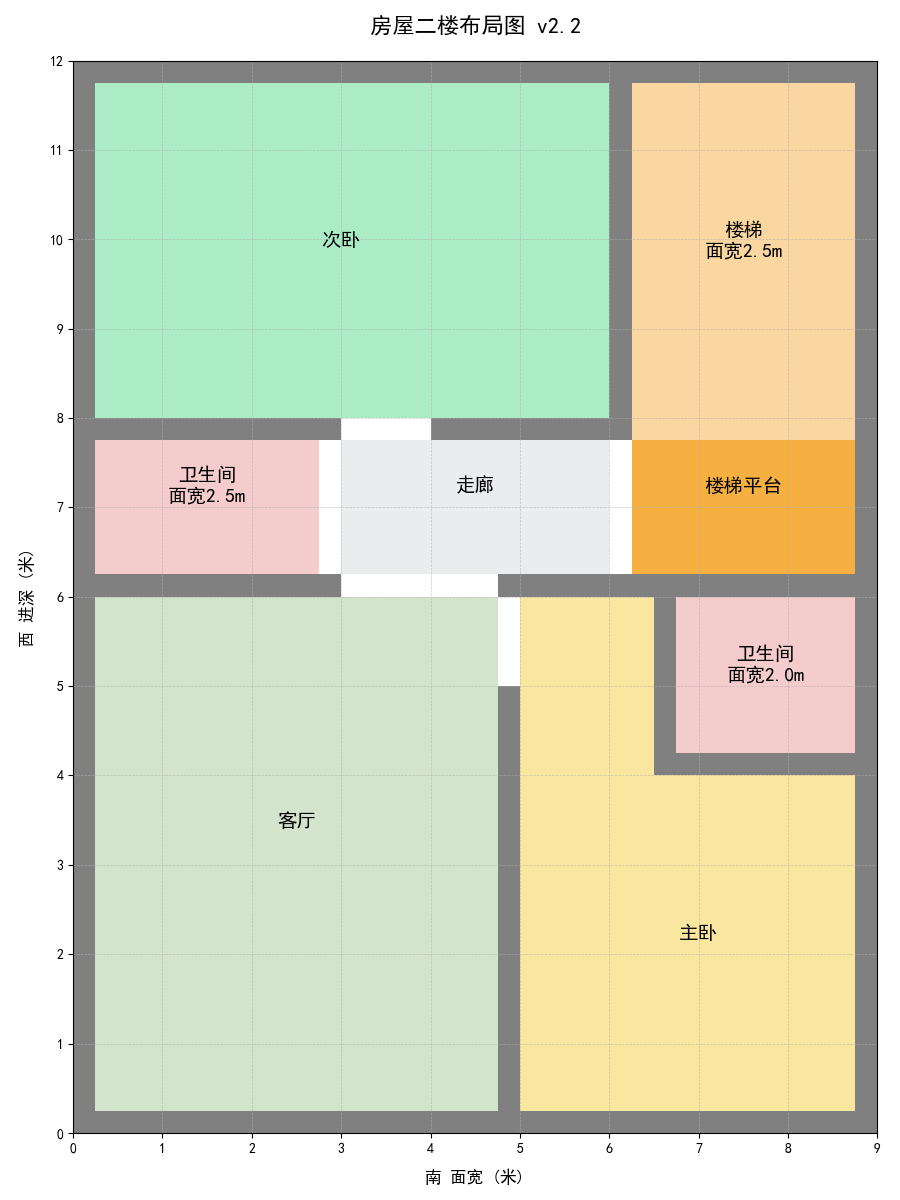
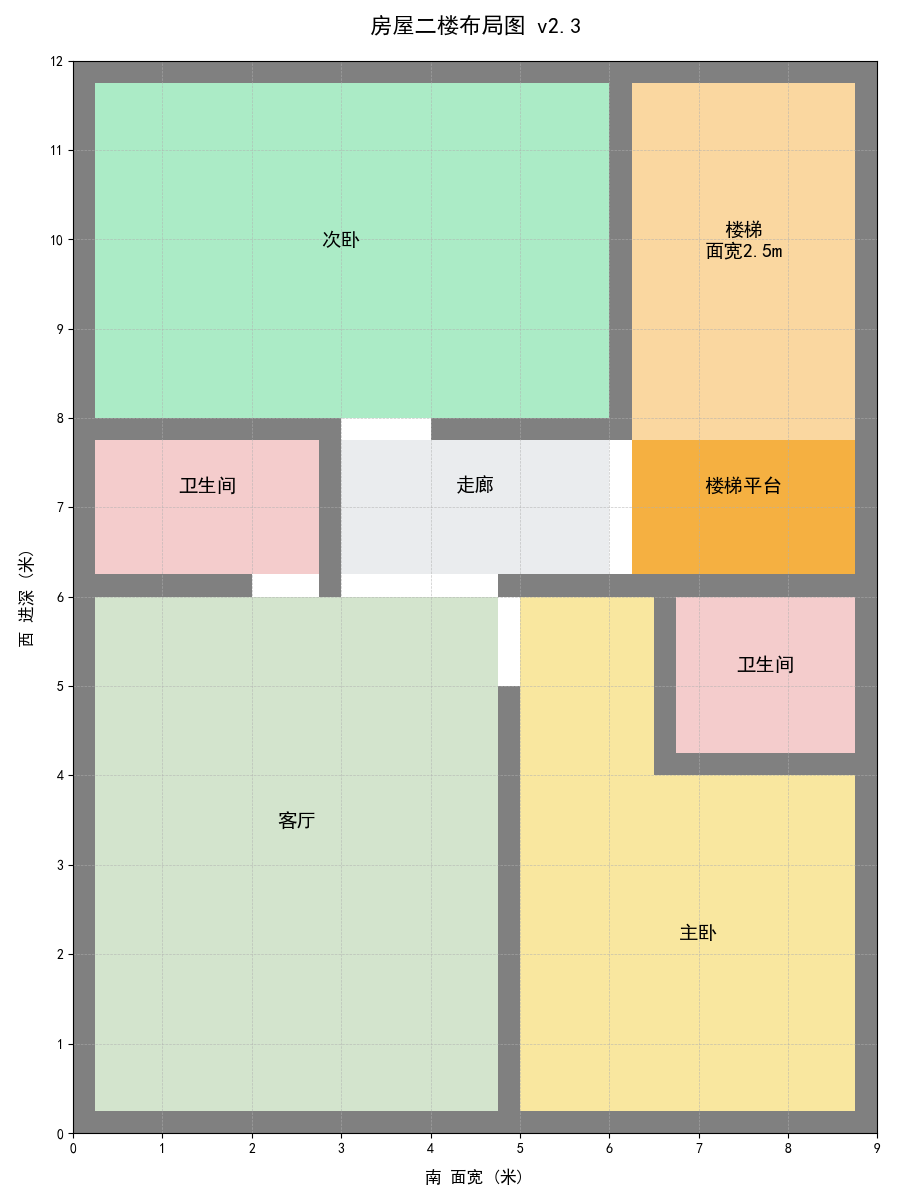
perf(floor): update

Changed region(s): [[0.28, 0.37, 0.4044, 0.5242], [0.8089, 0.5242, 0.9022, 0.5858], [0.1867, 0.37, 0.28, 0.4317]]

diff --git a/floor_2nd.py b/floor_2nd.py
@@ -70,9 +70,15 @@ ax.add_patch(patches.Rectangle((wall_thickness, wall_thickness), 4.5, 5.75, face
 ax.text(2.5, 3.5, f"客厅", ha='center', va='center', fontsize=14)
 
 # 客厅卫生间：位于次卧上方
-draw_wall(ax, 0, 6, 2.5 + 2 * wall_thickness, 1.5 + 2 * wall_thickness, adjacent=['right'])
-ax.add_patch(patches.Rectangle((wall_thickness, 6 + wall_thickness), 2.5, 1.5, facecolor=colors['卫生间']))
-ax.text(1.5, 7.25, f"卫生间\n面宽2.5m", ha='center', va='center', fontsize=14)
+draw_wall(ax, 0, 6, 1.5 + 2 * wall_thickness, 1.5 + 2 * wall_thickness, exclude=['right'])
+ax.add_patch(
+    patches.Rectangle((wall_thickness, 6 + wall_thickness), 1.5 + wall_thickness, 1.5, facecolor=colors['卫生间']))
+
+draw_wall(ax, 2, 6, 1, 1.5 + 2 * wall_thickness, exclude=['left', 'bottom'])
+ax.add_patch(
+    patches.Rectangle((2, 6 + wall_thickness), 1 - wall_thickness, 1.5, facecolor=colors['卫生间']))
+
+ax.text(1.5, 7.25, f"卫生间", ha='center', va='center', fontsize=14)
 
 # 主卧（右下角）
 draw_wall(ax, 5 - wall_thickness, 0, 3.75 + 2 * wall_thickness, 4.75 + wall_thickness, exclude=['top'])  # 排除顶部墙壁
@@ -87,7 +93,7 @@ ax.text(7, 2.25, f"主卧", ha='center', va='center', fontsize=14)
 # 卫生间（主卧里面）
 draw_wall(ax, 6.5, 4, 2 + 2 * wall_thickness, 1.75 + 2 * wall_thickness, exclude=['top'])  # 排除左侧墙壁
 ax.add_patch(patches.Rectangle((6.5 + wall_thickness, 4 + wall_thickness), 2, 1.75, facecolor=colors['卫生间']))
-ax.text(7.75, 5.25, f"卫生间\n面宽2.0m", ha='center', va='center', fontsize=14)
+ax.text(7.75, 5.25, f"卫生间", ha='center', va='center', fontsize=14)
 
 # 显示坐标轴标签
 plt.xlabel("南 面宽 (米)", fontsize=12, labelpad=10)

diff --git a/floor_3nd.py b/floor_3nd.py
@@ -70,9 +70,15 @@ ax.add_patch(patches.Rectangle((wall_thickness, wall_thickness), 4.5, 5.75, face
 ax.text(2.5, 3.5, f"客厅", ha='center', va='center', fontsize=14)
 
 # 客厅卫生间：位于次卧上方
-draw_wall(ax, 0, 6, 2.5 + 2 * wall_thickness, 1.5 + 2 * wall_thickness, adjacent=['right'])
-ax.add_patch(patches.Rectangle((wall_thickness, 6 + wall_thickness), 2.5, 1.5, facecolor=colors['卫生间']))
-ax.text(1.5, 7.25, f"卫生间\n面宽2.5m", ha='center', va='center', fontsize=14)
+draw_wall(ax, 0, 6, 1.5 + 2 * wall_thickness, 1.5 + 2 * wall_thickness, exclude=['right'])
+ax.add_patch(
+    patches.Rectangle((wall_thickness, 6 + wall_thickness), 1.5 + wall_thickness, 1.5, facecolor=colors['卫生间']))
+
+draw_wall(ax, 2, 6, 1, 1.5 + 2 * wall_thickness, exclude=['left', 'bottom'])
+ax.add_patch(
+    patches.Rectangle((2, 6 + wall_thickness), 1 - wall_thickness, 1.5, facecolor=colors['卫生间']))
+
+ax.text(1.5, 7.25, f"卫生间", ha='center', va='center', fontsize=14)
 
 # 主卧（右下角）
 draw_wall(ax, 5 - wall_thickness, 0, 3.75 + 2 * wall_thickness, 4.75 + wall_thickness, exclude=['top'])  # 排除顶部墙壁
@@ -87,7 +93,7 @@ ax.text(7, 2.25, f"主卧", ha='center', va='center', fontsize=14)
 # 卫生间（主卧里面）
 draw_wall(ax, 6.5, 4, 2 + 2 * wall_thickness, 1.75 + 2 * wall_thickness, exclude=['top'])  # 排除左侧墙壁
 ax.add_patch(patches.Rectangle((6.5 + wall_thickness, 4 + wall_thickness), 2, 1.75, facecolor=colors['卫生间']))
-ax.text(7.75, 5.25, f"卫生间\n面宽2.0m", ha='center', va='center', fontsize=14)
+ax.text(7.75, 5.25, f"卫生间", ha='center', va='center', fontsize=14)
 
 # 显示坐标轴标签
 plt.xlabel("南 面宽 (米)", fontsize=12, labelpad=10)

diff --git a/floor_1nd.py b/floor_1nd.py
@@ -70,14 +70,14 @@ draw_wall(ax, 4, 6.5 - 2 * wall_thickness, 1, 1.5 + 2 * wall_thickness,
 ax.add_patch(patches.Rectangle((4, 6.5 - wall_thickness), 1, 1.5,
                                facecolor=colors['走廊']))
 
-draw_wall(ax, 3, 6.5 - 2 * wall_thickness, 1, 1.5 + 2 * wall_thickness,
+draw_wall(ax, 3.5, 6.5 - 2 * wall_thickness, 0.5, 1.5 + 2 * wall_thickness,
           exclude=['left', 'right'])
-ax.add_patch(patches.Rectangle((3, 6.5 - wall_thickness), 1, 1.5,
+ax.add_patch(patches.Rectangle((3.5, 6.5 - wall_thickness), 0.5, 1.5,
                                facecolor=colors['走廊']))
 
-draw_wall(ax, 2, 6.5 - 2 * wall_thickness, 1 + wall_thickness, 1.5 + 2 * wall_thickness,
+draw_wall(ax, 2, 6.5 - 2 * wall_thickness, 1.5 + wall_thickness, 1.5 + 2 * wall_thickness,
           exclude=['left', 'right', 'bottom'])
-ax.add_patch(patches.Rectangle((2, 6.5 - wall_thickness), 1 + wall_thickness, 1.5,
+ax.add_patch(patches.Rectangle((2, 6.5 - wall_thickness), 1.5 + wall_thickness, 1.5,
                                facecolor=colors['走廊']))
 
 ax.text(3.5, 7.25, f"走廊", ha='center', va='center', fontsize=14)
@@ -86,7 +86,7 @@ ax.text(3.5, 7.25, f"走廊", ha='center', va='center', fontsize=14)
 draw_wall(ax, 0, 6, 1.5 + 2 * wall_thickness, 1.5 + 2 * wall_thickness, adjacent=['right'])
 ax.add_patch(
     patches.Rectangle((wall_thickness, 6 + wall_thickness), 1.5, 1.5, facecolor=colors['卫生间']))
-ax.text(0.9, 7.25, f"卫生间\n面宽1.5m", ha='center', va='center', fontsize=14, )
+ax.text(0.9, 7.25, f"卫生间", ha='center', va='center', fontsize=14, )
 
 # 显示坐标轴标签
 plt.xlabel("南 面宽 (米)", fontsize=12)

diff --git a/globals.py b/globals.py
@@ -7,7 +7,7 @@
 @Description: 
 """
 
-VERSION = "v2.2"
+VERSION = "v2.3"
 
 FLOOR_1_TITLE = f"房屋一楼布局图 {VERSION}"
 FLOOR_1_5_TITLE = f"厨房布局图 {VERSION}"
